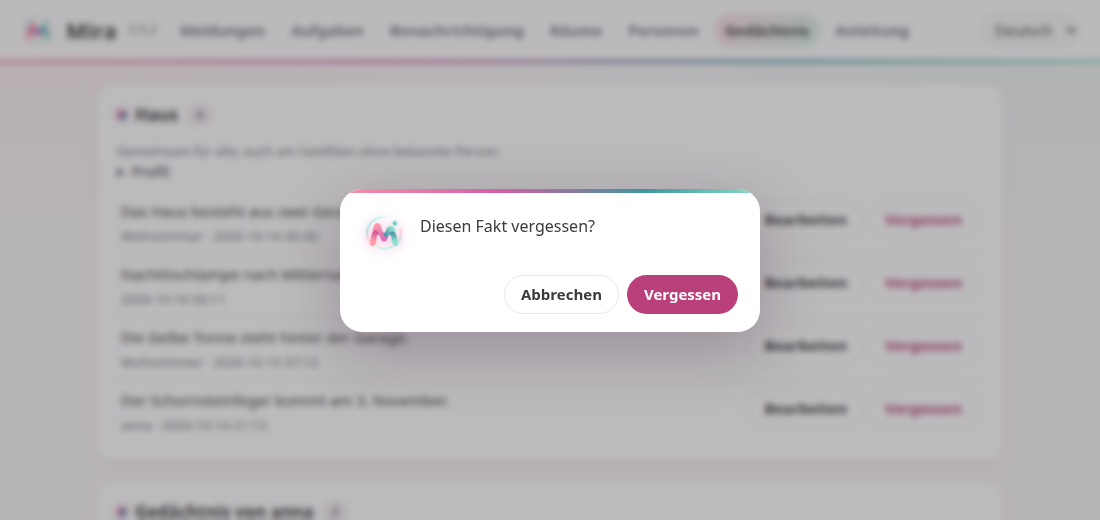
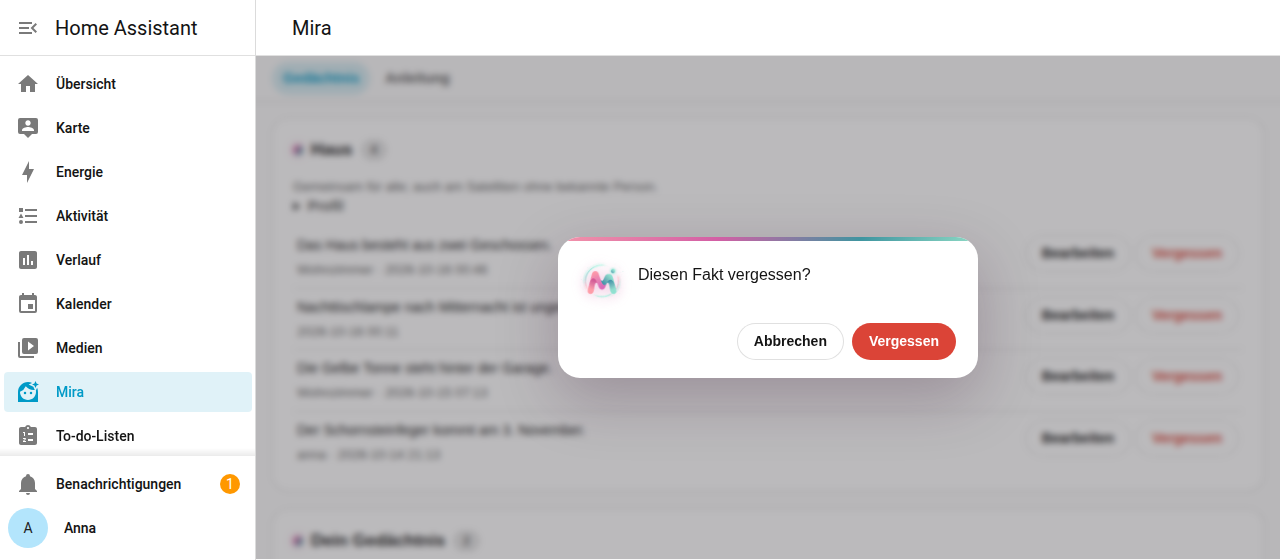
Anleitung stellt Mira im HA-Seitenmenü in den Vordergrund, Screenshots aus dem Panel, eigenständige Seite nur erwähnt; eigene Karte heißt „Dein Gedächtnis“; Panel wartet auf einen Agenten, der gerade neu startet, statt einen Verbindungsfehler zu zeigen

diff --git a/internal/ui/index.html b/internal/ui/index.html
@@ -184,6 +184,7 @@ const I18N = {
   "tab_persons": "Personen",
   "tab_memory": "Gedächtnis",
   "token_wrong": "Token fehlt oder ist falsch.",
+  "unreachable": "Ich bin gerade nicht erreichbar, vielleicht starte ich gerade neu. Ich versuche es gleich noch mal …",
   "token_ask": "API-Token von Mira (MIRA_API_TOKEN):",
   "dlg_ok": "OK",
   "dlg_cancel": "Abbrechen",
@@ -302,6 +303,10 @@ const I18N = {
   "profile_hint": "Die Profile werden nachts aus den Fakten verdichtet: das des Hauses steht in jedem Prompt, das einer Person in jedem Gespräch mit ihr.",
   "memory_house": "Haus",
   "memory_of": "Gedächtnis von {name}",
+  "memory_yours": "Dein Gedächtnis",
+  "memory_yours_hint": "Nur für dich: was du mir per Telegram, in der HA-App oder am Satelliten gesagt hast, wenn du allein zu Hause bist und das eingeschaltet hast.",
+  "empty_yours": "Für dich hab ich mir noch nichts gemerkt.",
+  "empty_yours_how": "Sag es mir per Telegram oder im Chat der HA-App, z. B. „Merk dir, dass ich keinen Koriander mag.“",
   "memory_house_hint": "Gemeinsam für alle; auch am Satelliten ohne bekannte Person.",
   "memory_person_hint": "Nur für diese Person: per Telegram, in der HA-App oder am Satelliten, wenn sie allein zu Hause ist und das eingeschaltet hat.",
   "edited": "geändert",
@@ -366,6 +371,7 @@ const I18N = {
   "tab_persons": "People",
   "tab_memory": "Memory",
   "token_wrong": "Token missing or wrong.",
+  "unreachable": "I can't be reached right now, maybe I'm restarting. Trying again in a moment …",
   "token_ask": "Mira API token (MIRA_API_TOKEN):",
   "dlg_ok": "OK",
   "dlg_cancel": "Cancel",
@@ -484,6 +490,10 @@ const I18N = {
   "profile_hint": "The profiles are condensed from the facts at night: the house's is part of every prompt, a person's of every conversation with them.",
   "memory_house": "House",
   "memory_of": "Memory of {name}",
+  "memory_yours": "Your memory",
+  "memory_yours_hint": "Only for you: what you told me on Telegram, in the HA app, or at a satellite when you are alone at home and switched that on.",
+  "empty_yours": "I haven't remembered anything for you yet.",
+  "empty_yours_how": "Tell me on Telegram or in the HA app's chat, e.g. \"Remember that I don't like coriander.\"",
   "memory_house_hint": "Shared by everyone; also at a satellite when nobody is known.",
   "memory_person_hint": "Only for this person: on Telegram, in the HA app, or at a satellite when they are alone at home and switched that on.",
   "edited": "edited",
@@ -632,12 +642,25 @@ const managed = name => (config[name] || {}).managed_by === "home_assistant";
 const $ = (sel, root = document) => root.querySelector(sel);
 const esc = s => String(s ?? "").replace(/[&<>"']/g, c => ({"&":"&amp;","<":"&lt;",">":"&gt;",'"':"&quot;","'":"&#39;"}[c]));
 
-async function api(method, path, body) {
-  const res = await fetch(url(path), {
-    method, headers: { "Authorization": await authorization(), "Content-Type": "application/json" },
-    body: body === undefined ? undefined : JSON.stringify(body),
-  });
-  const data = await res.json().catch(() => ({}));
+// When Mira cannot be reached (restarting, say), the page waits and tries
+// again for a while, with a note in her words instead of a network error.
+const RETRIES = 10, RETRY_WAIT = 3000;
+async function api(method, path, body, tries = 0) {
+  let res;
+  try {
+    res = await fetch(url(path), {
+      method, headers: { "Authorization": await authorization(), "Content-Type": "application/json" },
+      body: body === undefined ? undefined : JSON.stringify(body),
+    });
+  } catch (e) { res = null; }
+  const data = res ? await res.json().catch(() => ({})) : {};
+  if (!res || (res.status === 503 && data.unreachable)) {
+    if (tries >= RETRIES) throw new Error(T.unreachable);
+    message(T.unreachable, false);
+    await new Promise(r => setTimeout(r, RETRY_WAIT));
+    return api(method, path, body, tries + 1);
+  }
+  if (tries) { const box = $("#msg"); if (box) box.hidden = true; }
   if (res.status === 401 && !embedded) { askToken(); throw new Error(T.token_wrong); }
   if (!res.ok) throw new Error(data.error || res.statusText);
   return data;
@@ -936,17 +959,17 @@ async function memory() {
   try {
     const r = await api("GET", "/v1/ui/memory");
     $("#memories").innerHTML = (r.unknown_person ? `<section class="card"><p class="hint">${T.unknown_person}</p></section>` : "") + r.memories.map(m => {
-      const house = m.owner === "house";
-      const title = house ? T.memory_house : T.memory_of.replace("{name}", m.owner);
+      const house = m.owner === "house", yours = !!r.you && m.owner === r.you;
+      const title = house ? T.memory_house : yours ? T.memory_yours : T.memory_of.replace("{name}", m.owner);
       const name = esc(m.owner);
-      const facts = m.facts.length === 0 ? `<p class="empty">${house ? T.empty_house : T.empty_person.replaceAll("{name}", name)}</p>
-        <p class="hint">${house ? T.empty_house_how : T.empty_person_how.replaceAll("{name}", name)}</p>` : `
+      const facts = m.facts.length === 0 ? `<p class="empty">${house ? T.empty_house : yours ? T.empty_yours : T.empty_person.replaceAll("{name}", name)}</p>
+        <p class="hint">${house ? T.empty_house_how : yours ? T.empty_yours_how : T.empty_person_how.replaceAll("{name}", name)}</p>` : `
         <table>${m.facts.map(f => `<tr data-fact="${esc(f.id)}"><td class="fact"><span class="text">${esc(f.text)}</span>
           <p class="hint">${f.author ? esc(f.author) + " · " : ""}${esc(f.told || f.updated)}${f.told ? " · " + T.edited + " " + esc(f.updated) : ""}</p></td>
           <td class="fact-actions"><button class="secondary" onclick="editFact('${esc(f.id)}')">${T.fact_edit}</button>
           <button class="danger" onclick="forget('${esc(f.id)}')">${T.forget}</button></td></tr>`).join("")}</table>`;
       return `<section class="card"><h2>${esc(title)} <span class="badge">${m.facts.length}</span></h2>
-        ${m.facts.length ? `<p class="hint">${house ? T.memory_house_hint : T.memory_person_hint}</p>` : ""}
+        ${m.facts.length ? `<p class="hint">${house ? T.memory_house_hint : yours ? T.memory_yours_hint : T.memory_person_hint}</p>` : ""}
         ${m.facts.length || m.profile ? `<details class="profile"><summary>${T.profile}${m.profile_updated ? ` <small class="hint">${T.last_compacted}${esc(m.profile_updated)}</small>` : ""}</summary>
           ${m.profile ? `<pre>${esc(m.profile)}</pre>` : `<p class="hint">${T.no_profile}</p>`}</details>` : ""}
         ${facts}</section>`;

diff --git a/custom_components/mira/panel.py b/custom_components/mira/panel.py
@@ -13,6 +13,8 @@ agent once more from the user it is told.
 
 from __future__ import annotations
 
+import asyncio
+import logging
 import re
 
 import aiohttp
@@ -45,6 +47,19 @@ HEADER_ADMIN = "X-Mira-HA-Admin"
 REQUEST_PASSED = ("Range", "If-Range")
 PASSED = ("Content-Type", "Cache-Control", "Accept-Ranges", "Content-Range")
 TIMEOUT = aiohttp.ClientTimeout(total=60)
+# How often and how long to wait for an agent that is restarting.
+CONNECT_TRIES = 4
+CONNECT_WAIT = 1.0
+
+_LOGGER = logging.getLogger(__name__)
+
+# Shown in the panel while the agent cannot be reached; reloads itself.
+WAITING_PAGE = """<!doctype html><html><head><meta charset="utf-8">
+<meta http-equiv="refresh" content="5"><meta name="viewport" content="width=device-width">
+<style>body{font-family:Roboto,system-ui,sans-serif;color:#555;display:flex;align-items:center;
+justify-content:center;height:90vh;margin:0;text-align:center}@media (prefers-color-scheme:dark)
+{body{color:#bbb;background:#111}}</style></head><body><p>Mira ist gerade nicht erreichbar, gleich noch mal …<br>
+<small>Mira can't be reached right now, trying again …</small></p></body></html>"""
 
 
 @callback
@@ -97,22 +112,35 @@ async def _forward(
         headers["Authorization"] = f"Bearer {token}"
     headers.update(extra or {})
     body = await request.read() if request.can_read_body else None
-    try:
-        async with async_get_clientsession(hass).request(
-            request.method,
-            f"{base}/{path}",
-            params=request.query,
-            data=body,
-            headers=headers,
-            timeout=TIMEOUT,
-        ) as resp:
-            data = await resp.read()
-            passed = {k: resp.headers[k] for k in PASSED if k in resp.headers}
-            if with_token:
-                passed.setdefault("Content-Type", "application/json")
-            return web.Response(status=resp.status, body=data, headers=passed)
-    except (aiohttp.ClientError, TimeoutError) as err:
-        return web.json_response({"error": f"Mira agent not reachable: {err}"}, status=502)
+    # The agent may be restarting just now (an update, a container restart):
+    # wait a moment for it rather than showing a connection error. Only a
+    # connection that was never made is tried again, so nothing runs twice.
+    last: Exception | None = None
+    for attempt in range(CONNECT_TRIES):
+        if attempt:
+            await asyncio.sleep(CONNECT_WAIT)
+        try:
+            async with async_get_clientsession(hass).request(
+                request.method,
+                f"{base}/{path}",
+                params=request.query,
+                data=body,
+                headers=headers,
+                timeout=TIMEOUT,
+            ) as resp:
+                data = await resp.read()
+                passed = {k: resp.headers[k] for k in PASSED if k in resp.headers}
+                if with_token:
+                    passed.setdefault("Content-Type", "application/json")
+                return web.Response(status=resp.status, body=data, headers=passed)
+        except aiohttp.ClientConnectorError as err:
+            last = err
+        except (aiohttp.ClientError, TimeoutError) as err:
+            last = err
+            break
+    _LOGGER.debug("Mira agent not reachable: %s", last)
+    # The page says this in Mira's words and tries again by itself.
+    return web.json_response({"error": "unreachable", "unreachable": True}, status=503)
 
 
 def _allowed(method: str, path: str) -> bool:
@@ -132,7 +160,11 @@ class MiraPanelView(HomeAssistantView):
     async def get(self, request: web.Request, path: str) -> web.Response:
         if not PAGE_FILES.fullmatch(path):
             return web.Response(status=404)
-        return await _forward(request.app[KEY_HASS], request, path, with_token=False)
+        resp = await _forward(request.app[KEY_HASS], request, path, with_token=False)
+        if resp.status == 503 and path in ("ui", "ui/"):
+            # The page itself: a short note that loads Mira again by itself.
+            return web.Response(status=503, text=WAITING_PAGE, content_type="text/html")
+        return resp
 
 
 class MiraProxyView(HomeAssistantView):

diff --git a/tests/ha/test_panel.py b/tests/ha/test_panel.py
@@ -102,3 +102,25 @@ async def test_non_admin_gets_their_memory_only(hass, aioclient_mock, entry, has
         ("PUT", "/api/mira/proxy/v1/ui/config"),
     ]:
         assert (await client.request(method, path)).status == 401, path
+
+
+async def test_agent_restarting_is_waited_for(hass, aioclient_mock, entry, hass_client, hass_client_no_auth, monkeypatch):
+    import aiohttp
+
+    from custom_components.mira import panel
+
+    monkeypatch.setattr(panel, "CONNECT_WAIT", 0)
+    await _setup(hass, aioclient_mock, entry)
+    down = aiohttp.ClientConnectorError(None, OSError("connection refused"))
+    aioclient_mock.get(f"{AGENT_URL}/v1/ui/memory", exc=down)
+    aioclient_mock.get(f"{AGENT_URL}/ui", exc=down)
+    client = await hass_client()
+    resp = await client.get("/api/mira/proxy/v1/ui/memory")
+    # No raw connection error: the page says it in Mira's words and retries.
+    assert resp.status == 503
+    assert await resp.json() == {"error": "unreachable", "unreachable": True}
+    calls = [c for c in aioclient_mock.mock_calls if str(c[1]).endswith("/v1/ui/memory")]
+    assert len(calls) == panel.CONNECT_TRIES
+    resp = await (await hass_client_no_auth()).get("/api/mira/panel/ui")
+    assert resp.status == 503
+    assert "nicht erreichbar" in await resp.text()

diff --git a/internal/ui/ui.go b/internal/ui/ui.go
@@ -462,7 +462,9 @@ func (h *Handler) memory(w http.ResponseWriter, r *http.Request) {
 		// Unknown is set inside Home Assistant when the HA user belongs to
 		// no person, so only the house's memory shows.
 		Unknown bool `json:"unknown_person,omitempty"`
-	}{Memories: []memory{}, CanCompact: h.opts.CompactProfile != nil && v.admin, Unknown: v.limited && v.person == ""}
+		// You is the viewer's own person inside Home Assistant.
+		You string `json:"you,omitempty"`
+	}{Memories: []memory{}, CanCompact: h.opts.CompactProfile != nil && v.admin, Unknown: v.limited && v.person == "", You: v.person}
 	const stamp = "2006-01-02 15:04"
 	for _, owner := range owners {
 		facts, err := h.opts.Store.AllFacts(ctx, owner)

diff --git a/internal/ui/ui_test.go b/internal/ui/ui_test.go
@@ -202,6 +202,9 @@ func TestMemoryInsideHomeAssistant(t *testing.T) {
 		if code != 200 || !strings.Contains(body, "Tonne") || !strings.Contains(body, "Koriander") || strings.Contains(body, "Chorprobe") {
 			t.Fatalf("admin=%v: %d %s", admin, code, body)
 		}
+		if !strings.Contains(body, `"you":"anna"`) {
+			t.Errorf("admin=%v: own person missing: %s", admin, body)
+		}
 		if strings.Contains(body, `"can_compact":true`) != admin {
 			t.Errorf("admin=%v: can_compact in %s", admin, body)
 		}

diff --git a/docs/guide/de.md b/docs/guide/de.md
@@ -62,9 +62,9 @@ So läuft das Einrichten ab:
 Beim Beurteilen vergleicht Mira zum Beispiel den Verbrauch der letzten Stunde mit derselben Stunde der vergangenen zwei Wochen, weiß, wer zu Hause ist, kennt, was du ihr gemerkt hast, und erinnert sich, was sie zu dieser Aufgabe schon gesagt hat. Dieselbe Sache meldet sie nicht ständig wieder, nur wenn es schlimmer wird.
 
 - „Welche Aufgaben hast du?“ – „Pausier die Gas-Aufgabe.“ – „Lösch die Aufgabe mit dem Strom.“ – „Mach einen Probelauf der Gas-Aufgabe.“
-- In der Web-Oberfläche unter **Aufgaben** siehst du alle Aufgaben mit an/aus, Probelauf und dem Protokoll ihrer Urteile, dazu Vorschläge, die noch auf dein Ja warten.
+- In Home Assistant unter Mira → **Aufgaben** siehst du alle Aufgaben mit an/aus, Probelauf und dem Protokoll ihrer Urteile, dazu Vorschläge, die noch auf dein Ja warten.
 
-![Aufgaben in der Web-Oberfläche: ein wartender Vorschlag, eine pausierte und zwei laufende Aufgaben](img/aufgaben-liste-de.png)
+![Mira im Seitenmenü von Home Assistant: eine pausierte und zwei laufende Aufgaben](img/aufgaben-liste-de.png)
 
 Unter der Haube ist jede Aufgabe eine ganz normale **Automation in Home Assistant** mit dem Label „Mira“: Home Assistant entscheidet, *wann* etwas passiert (stündlich, wenn ein Sensor auslöst, nur nachts …), Mira entscheidet, *was* davon dich interessiert. „In Home Assistant bearbeiten“ öffnet sie im Editor; dort kannst du sie auch selbst ändern.
 
@@ -101,7 +101,7 @@ Wenn Mira von sich aus spricht, leuchtet die Anzeige-Lampe des Raums ruhig, sola
 
 **Vertrauliches und Persönliches**: Meldungen können für eine Person bestimmt oder vertraulich sein. Vertrauliches liest Mira nur vor, wenn die Einstellung es erlaubt (z. B. nur wenn die Person allein zu Hause ist); sonst kommt es privat per Telegram oder als Push-Nachricht aufs Handy.
 
-![Meldungen in der Web-Oberfläche: wartende und zugestellte Meldungen](img/meldungen-de.png)
+![Meldungen: wartende und zugestellte](img/meldungen-de.png)
 
 ## Mira merkt sich Dinge
 
@@ -118,9 +118,9 @@ Es gibt ein Gedächtnis fürs **Haus** und eins für **jede Person**:
 - Dein persönliches Gedächtnis sieht nur Mira im Gespräch mit dir. Das Haus-Gedächtnis gilt für alle.
 - In fremde Gedächtnisse schreibt niemand.
 
-Nachts fasst Mira jedes Gedächtnis zu einem kurzen Profil zusammen. In der Web-Oberfläche unter **Gedächtnis** siehst du Haus und Personen getrennt, mit wer es wann gesagt hat, und kannst Fakten bearbeiten oder löschen.
+Nachts fasst Mira jedes Gedächtnis zu einem kurzen Profil zusammen. In Home Assistant siehst du unter Mira → **Gedächtnis** das des Hauses und dein eigenes, mit wer es wann gesagt hat, und kannst Fakten bearbeiten oder vergessen. Die Gedächtnisse der anderen sieht dort niemand, auch kein Admin.
 
-![Das Gedächtnis: Haus, Anna und Ben, jeweils mit Urheber und Zeitpunkt](img/gedaechtnis-de.png)
+![Annas Sicht: das Gedächtnis des Hauses und ihr eigenes](img/gedaechtnis-de.png)
 
 ## Skills: zum Beispiel die Müllabfuhr
 
@@ -157,32 +157,33 @@ Mira fragt Werte immer frisch ab, statt sie zu schätzen. Kann sie etwas nicht n
 
 **Wichtige Aktionen bestätigen**: Schlösser, Alarmanlage, Garagentor und Ähnliches führt Mira erst aus, wenn du auf ihre Rückfrage ausdrücklich „Ja“ sagst.
 
-## Web-Oberfläche
+## Mira in Home Assistant
 
-In Home Assistant steht Mira im Seitenmenü, mit deiner HA-Anmeldung und im Aussehen deines HA-Themes, auch von unterwegs. Dort sieht jeder beim Gedächtnis nur das des Hauses und sein eigenes (dafür muss die Person mit dem HA-Benutzer verknüpft sein); alles andere sehen nur Admins. Für sich allein läuft sie unter `http://<mira>:8787/ui` (Zugangs-Token beim ersten Aufruf). Beide zeigen dasselbe:
+Mira steht in Home Assistant im Seitenmenü. Du bist dort schon angemeldet, sie sieht aus wie dein HA-Theme (hell oder dunkel) und spricht deine HA-Sprache; das klappt auch unterwegs in der App.
 
 - **Meldungen**: offene und zugestellte Meldungen ansehen und quittieren.
-- **Aufgaben**: was Mira für dich im Blick behält; an/aus, Probelauf, Protokoll, löschen, Link in den Editor von Home Assistant.
+- **Aufgaben**: was Mira für dich im Blick behält; an/aus, Probelauf, Protokoll, löschen, „In Home Assistant bearbeiten“.
 - **Benachrichtigung**: Ruhezeit, Pausen, Eskalation, Vertrauliches, dringende Meldungen.
-- **Räume**: welcher Satellit wo spricht, Bewegungsmelder, ansagen oder anzeigen, Anzeige-Lampe.
-- **Personen**: wer persönliche Meldungen bekommt, per Telegram oder Push, und ob die Satelliten als diese Person gelten, wenn sie allein zu Hause ist („Allein = ich“).
-- **Gedächtnis**: Haus und jede Person getrennt, mit Profil, Fakten, wer sie wann gesagt hat; bearbeiten und vergessen.
+- **Räume** und **Personen**: zeigen, was du in der Integration eingerichtet hast (siehe unten).
+- **Gedächtnis**: das des Hauses und dein eigenes; bearbeiten und vergessen.
 - **Anleitung**: diese Seite.
 
-![Einstellungen für Benachrichtigungen: Ruhezeit, Pausen, Eskalation](img/benachrichtigung-de.png)
+Wer kein Admin ist, sieht nur **Gedächtnis** und **Anleitung**. Damit Mira weiß, wessen Gedächtnis du bist, muss deine Person mit deinem HA-Benutzer verknüpft sein (Einstellungen → Personen).
+
+![Benachrichtigung: Ruhezeit, Pausen, Eskalation](img/benachrichtigung-de.png)
 
 Bevor Mira etwas löscht, fragt sie nach:
 
 ![Rückfrage vor dem Vergessen eines Fakts](img/dialog-vergessen-de.png)
 
-Ist die Mira-Integration in Home Assistant eingerichtet, bearbeitest du Räume und Personen dort (Einstellungen → Geräte & Dienste → Mira) mit der Auswahl von Entitäten und Bereichen; die Web-Oberfläche zeigt sie dann nur an.
+**Mira für sich allein**: Dieselbe Oberfläche gibt es auch direkt bei Mira unter `http://<mira>:8787/ui`, gedacht für den, der Mira betreibt, und für Installationen ohne die Integration. Sie macht ein paar Dinge anders: Sie kommt in Miras eigenen Farben, fragt beim ersten Aufruf nach dem Zugangs-Token, zeigt die Gedächtnisse aller Personen und lässt dort Räume und Personen bearbeiten, solange die Integration sie nicht verwaltet.
 
 ## In Home Assistant
 
 - **Gerät „Mira“** mit dem Schalter **Ruhemodus**, dem Sensor **Offene Hinweise** und der Taste **Profil verdichten**; die Versionen von Integration und Agent stehen in den Geräte-Informationen.
 - Mira ist ein Gesprächsagent: Unter Einstellungen → Sprachassistenten wählst du sie für deine Satelliten aus.
 - Automationen können Mira Meldungen geben, mit der Aktion `mira.add_notice`.
-- **Mira im Seitenmenü**: die Web-Oberfläche als Seite in Home Assistant; wer kein Admin ist, sieht dort nur sein Gedächtnis, das des Hauses und die Anleitung. Ausschalten in den Optionen der Integration; jeder kann sie auch nur in seinem eigenen Seitenmenü ausblenden.
+- **Mira im Seitenmenü** (siehe oben). Ausschalten in den Optionen der Integration; jeder kann sie auch nur in seinem eigenen Seitenmenü ausblenden.
 
 ![Das Gerät „Mira“ in Home Assistant](img/ha-geraet-de.png)
 

diff --git a/docs/guide/en.md b/docs/guide/en.md
@@ -62,9 +62,9 @@ This is how setting one up goes:
 When judging, Mira compares, for example, the last hour's usage with the same hour over the past two weeks, knows who is at home and what you asked her to remember, and recalls what she already said about this task. She does not report the same thing again and again, only when it gets worse.
 
 - "Which tasks do you have?" – "Pause the gas task." – "Delete the electricity task." – "Do a dry run of the gas task."
-- In the web interface under **Tasks** you see all tasks with on/off, dry run and the log of their judgements, plus proposals still waiting for your yes.
+- In Home Assistant under Mira → **Tasks** you see all tasks with on/off, dry run and the log of their judgements, plus proposals still waiting for your yes.
 
-![Tasks in the web interface: a waiting proposal, a paused and two running tasks](img/aufgaben-liste-en.png)
+![Mira in Home Assistant's sidebar: a paused and two running tasks](img/aufgaben-liste-en.png)
 
 Under the hood every task is an ordinary **automation in Home Assistant** labelled "Mira": Home Assistant decides *when* something happens (hourly, when a sensor fires, only at night …), Mira decides *what* of it interests you. "Edit in Home Assistant" opens it in the editor; you can change it there yourself too.
 
@@ -101,7 +101,7 @@ When Mira speaks up on her own, the room's indicator light glows steadily while 
 
 **Confidential and personal**: notices can be meant for one person or be confidential. Mira reads confidential notices out only when the setting allows it (e.g. only when that person is alone at home); otherwise they go privately by Telegram or as a push notification to the phone.
 
-![Notices in the web interface: waiting and delivered notices](img/meldungen-en.png)
+![Notices: waiting and delivered](img/meldungen-en.png)
 
 ## Mira remembers things
 
@@ -118,9 +118,9 @@ There is one memory for the **house** and one for **each person**:
 - Your personal memory is only seen by Mira when talking to you. The house's memory is for everyone.
 - Nobody writes into someone else's memory.
 
-At night Mira condenses each memory into a short profile. In the web interface under **Memory** you see the house and the persons apart, with who said it and when, and can edit or delete facts.
+At night Mira condenses each memory into a short profile. In Home Assistant, under Mira → **Memory**, you see the house's memory and your own, with who said it and when, and can edit or forget facts. Nobody sees the others' memories there, not even an admin.
 
-![The memory: house, Anna and Ben, each with author and time](img/gedaechtnis-en.png)
+![Anna's view: the house's memory and her own](img/gedaechtnis-en.png)
 
 ## Skills: the waste collection, for example
 
@@ -157,32 +157,33 @@ Mira always fetches values fresh instead of guessing. If she cannot check someth
 
 **Confirming important actions**: locks, the alarm system, the garage door and the like Mira only operates after you explicitly say "Yes" to her question.
 
-## Web interface
+## Mira in Home Assistant
 
-In Home Assistant, Mira is in the sidebar, with your HA login and in the look of your HA theme, also from away. There everyone sees only the house's memory and their own (their person must be linked to their HA user); everything else is for admins. On her own she runs at `http://<mira>:8787/ui` (access token on first visit). Both show the same:
+Mira is in Home Assistant's sidebar. You are signed in there already, she looks like your HA theme (light or dark) and speaks your HA language; this works from away in the app too.
 
 - **Notices**: see open and delivered notices and mark them done.
-- **Tasks**: what Mira keeps an eye on for you; on/off, dry run, log, delete, link into Home Assistant's editor.
+- **Tasks**: what Mira keeps an eye on for you; on/off, dry run, log, delete, "Edit in Home Assistant".
 - **Notifications**: quiet hours, pauses, escalation, confidential and urgent notices.
-- **Rooms**: which satellite speaks where, motion sensors, announce or indicate, indicator light.
-- **People**: who gets personal notices, by Telegram or push, and whether the satellites count as this person when they are alone at home ("Alone = me").
-- **Memory**: the house and each person apart, with profile, facts, who said them and when; edit and forget.
+- **Rooms** and **People**: show what you set up in the integration (see below).
+- **Memory**: the house's and your own; edit and forget.
 - **Guide**: this page.
 
-![Notification settings: quiet hours, pauses, escalation](img/benachrichtigung-en.png)
+Someone who is no admin sees only **Memory** and **Guide**. For Mira to know whose memory is yours, your person must be linked to your HA user (Settings → People).
+
+![Notifications: quiet hours, pauses, escalation](img/benachrichtigung-en.png)
 
 Before Mira deletes something, she asks:
 
 ![Asking before a fact is forgotten](img/dialog-vergessen-en.png)
 
-If the Mira integration is set up in Home Assistant, you edit rooms and people there (Settings → Devices & services → Mira) with pickers for entities and areas; the web interface then only shows them.
+**Mira on her own**: the same interface is also at Mira herself, at `http://<mira>:8787/ui`, meant for whoever runs Mira and for setups without the integration. It does a few things differently: it comes in Mira's own colors, asks for the access token on the first visit, shows the memories of all persons, and lets you edit rooms and people there as long as the integration does not manage them.
 
 ## In Home Assistant
 
 - **Device "Mira"** with the **Quiet mode** switch, the **Pending notices** sensor and the **Compact profile** button; the versions of integration and agent are in the device info.
 - Mira is a conversation agent: choose her for your satellites under Settings → Voice assistants.
 - Automations can give Mira notices with the action `mira.add_notice`.
-- **Mira in the sidebar**: the web interface as a page in Home Assistant; someone who is no admin sees only their memory, the house's and the guide. Switch it off in the integration's options; anyone can also hide it in just their own sidebar.
+- **Mira in the sidebar** (see above). Switch it off in the integration's options; anyone can also hide it in just their own sidebar.
 
 ![The "Mira" device in Home Assistant](img/ha-geraet-en.png)
 
